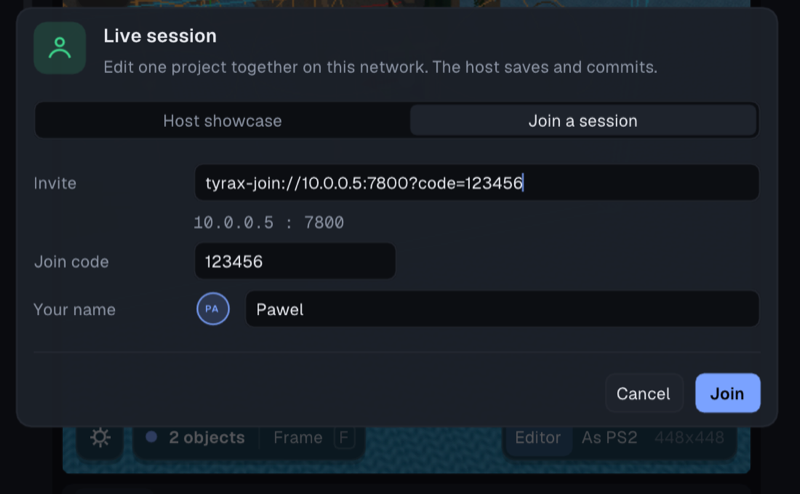
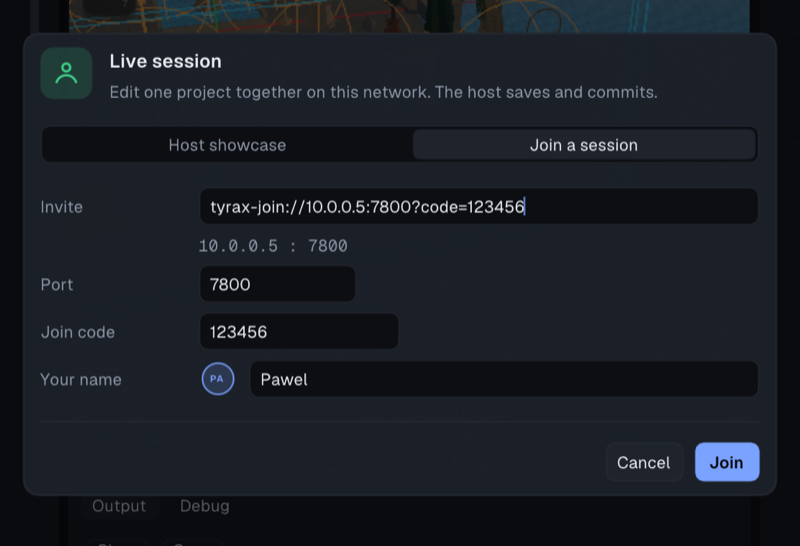
Live session: Host and Join each keep their own port and join code
The Live session modal used one sessionPort_ for both sides: pasting an
invite on the Join side wrote the HOST's port (and the invite's code into
the host's join code), so after joining someone on 7800 this editor would
host on 7800 with their code. Join now has sessionJoinPort_ (default 7797,
filled from the invite, its own "Port" row ##join_port under the address
readout) and sessionJoinCode_; the Session panel shows the joined host's
port for a client. Session state only, as before - nothing goes to
editor.ini.

Verified (macOS) with --ui-script on copies of examples/cube and showcase,
scratch XDG_CONFIG_HOME: Session > Join Session, typed
tyrax-join://10.0.0.5:7800?code=123456 into Invite -> Port 7800, code 123456;
then Host showcase -> expect 'Live session/Advanced - port 7797' passed and
the invite card shows :7797 and the host's own code (588 936). Retook
docs/img/collaboration-join.png on showcase with the same invite and name.
Not verified: an actual two-editor join (needs a second instance; the
change does not touch session.cpp).

diff --git a/src/app.cpp b/src/app.cpp
@@ -7650,22 +7650,30 @@ void App::drawHostSessionModal() {
             if (ImGui::InputTextWithHint("##invite", "tyrax-join://... or 192.168.0.28:7797", sessionInvite_,
                                          sizeof(sessionInvite_))) {
                 std::string host, code;
-                int port = sessionPort_;
+                int port = sessionJoinPort_;
                 parseInvite(sessionInvite_, host, port, code);
                 std::snprintf(sessionAddr_, sizeof(sessionAddr_), "%s", host.c_str());
-                sessionPort_ = ImClamp(port, 1024, 65535);
-                if (!code.empty()) std::snprintf(sessionCode_, sizeof(sessionCode_), "%s", code.c_str());
+                sessionJoinPort_ = ImClamp(port, 1024, 65535);
+                if (!code.empty()) std::snprintf(sessionJoinCode_, sizeof(sessionJoinCode_), "%s", code.c_str());
             }
             if (sessionAddr_[0]) {
                 ImGui::SetCursorPosX(colX);
                 ui::FontScope mono(ui::monoFont());
                 ImGui::PushStyleColor(ImGuiCol_Text, sem.textDim);
-                ImGui::Text("%s : %d", sessionAddr_, sessionPort_);
+                ImGui::Text("%s : %d", sessionAddr_, sessionJoinPort_);
                 ImGui::PopStyleColor();
             }
+            // The HOST's port - its own field, so joining someone on 7800
+            // does not move the port this editor hosts on (and back).
+            rowCaption("Port");
+            ImGui::SetNextItemWidth(scaled(110));
+            ImGui::InputInt("##join_port", &sessionJoinPort_, 0, 0);
+            sessionJoinPort_ = ImClamp(sessionJoinPort_, 1024, 65535);
+            if (ImGui::IsItemHovered())
+                ImGui::SetTooltip("The port the host listens on - an invite fills it in");
             rowCaption("Join code");
             ImGui::SetNextItemWidth(scaled(140));
-            ImGui::InputText("##join_code", sessionCode_, sizeof(sessionCode_));
+            ImGui::InputText("##join_code", sessionJoinCode_, sizeof(sessionJoinCode_));
             nameRow();
             if (hasProject_ && dirty_) {
                 ImGui::PushTextWrapPos(ImGui::GetCursorPosX() + w);
@@ -7691,7 +7699,7 @@ void App::drawHostSessionModal() {
         canPrimary = hasProject_ && sessionName_[0];
     } else {
         primary = "Join";
-        canPrimary = !busy && sessionAddr_[0] && sessionCode_[0] && sessionName_[0];
+        canPrimary = !busy && sessionAddr_[0] && sessionJoinCode_[0] && sessionName_[0];
     }
     const float pw = ImGui::CalcTextSize(primary.c_str()).x + st.FramePadding.x * 2.6f;
     const float cw = ImGui::CalcTextSize("Cancel").x + st.FramePadding.x * 2.0f;
@@ -7714,8 +7722,8 @@ void App::drawHostSessionModal() {
             sessionError_.clear();
             session::JoinConfig cfg;
             cfg.address = sessionAddr_;
-            cfg.port = (uint16_t)sessionPort_;
-            cfg.joinCode = sessionCode_;
+            cfg.port = (uint16_t)sessionJoinPort_;
+            cfg.joinCode = sessionJoinCode_;
             cfg.displayName = sessionName_;
             cfg.cacheRoot = globalSessionCacheDir_;
             // Remember the typed name for future sessions (editor.ini).
@@ -7802,7 +7810,7 @@ void App::drawSessionWindow() {
             ImGui::Text("%s", ip.c_str());
             ImGui::SameLine(0.0f, 0.0f);
             ImGui::PushStyleColor(ImGuiCol_Text, sem.textDim);
-            ImGui::Text(":%d", sessionPort_);
+            ImGui::Text(":%d", hosting ? sessionPort_ : sessionJoinPort_);
             ImGui::PopStyleColor();
             if (hosting) {
                 ImGui::SameLine();

diff --git a/src/app.hpp b/src/app.hpp
@@ -1952,8 +1952,10 @@ private:
     bool sessionAttachKeep_ = false;  // openRemoteProject: don't close on attach
     char sessionName_[48] = "";
     char sessionAddr_[128] = "";
-    int sessionPort_ = 7797;
-    char sessionCode_[16] = "";
+    int sessionPort_ = 7797;      // the port this editor HOSTS on
+    int sessionJoinPort_ = 7797;  // the port of the host it joins (Join segment)
+    char sessionCode_[16] = "";      // the code this editor hosts with
+    char sessionJoinCode_[16] = "";  // the code typed / pasted to join
     std::string sessionError_;      // inline error in the join modal
     int sessionTab_ = 0;            // the Live session modal: 0 Host, 1 Join
     char sessionInvite_[256] = "";  // pasted invite / host:port (parsed live)

diff --git a/docs/collaboration.md b/docs/collaboration.md
@@ -31,8 +31,11 @@ firewall must allow the port. **Start hosting <project>** starts it.
 ![The Join side: the pasted invite already split into address, port and join
 code.](img/collaboration-join.png)
 
-**Join**: paste the invite into *Invite* - the address, port and code fill
-themselves in (a plain `host:port` or address works too; type the code then).
+**Join**: paste the invite into *Invite* - the address, *Port* and *Join code*
+fill themselves in (a plain `host:port` or address works too; type the code
+then). The Join side's port and code are its own: joining somebody on 7800
+leaves the port and code this editor hosts with untouched, and the other way
+round.
 **Join** transfers the whole project the first time (a bar with files and MB
 and the file in flight); joining again later fetches only what changed. When
 the sync finishes the project opens and every edit streams both ways live. If
